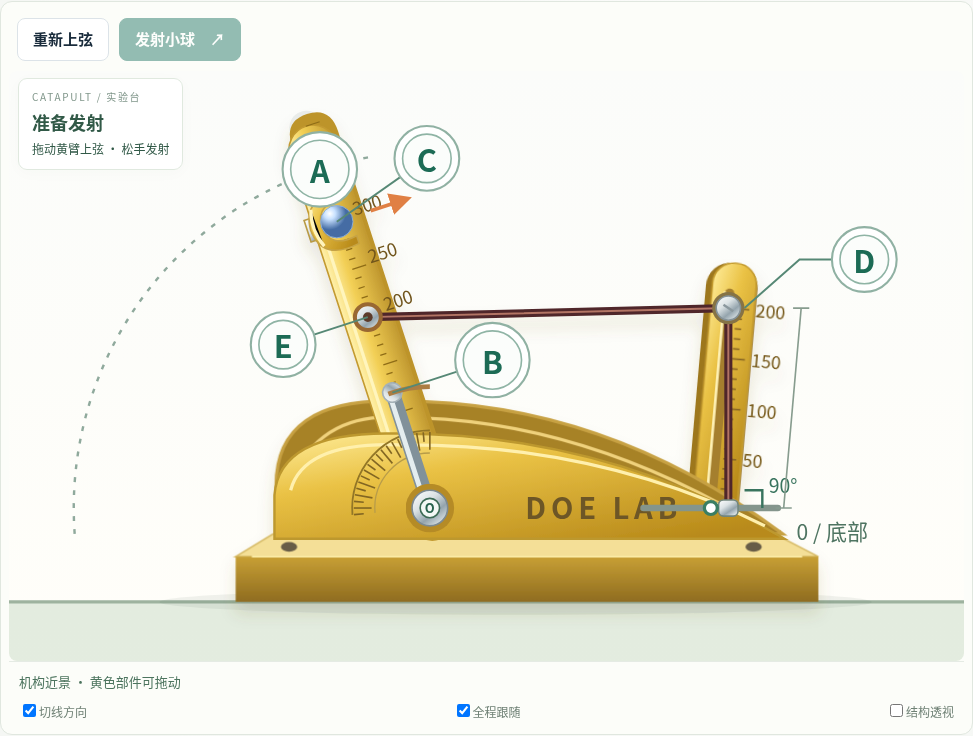
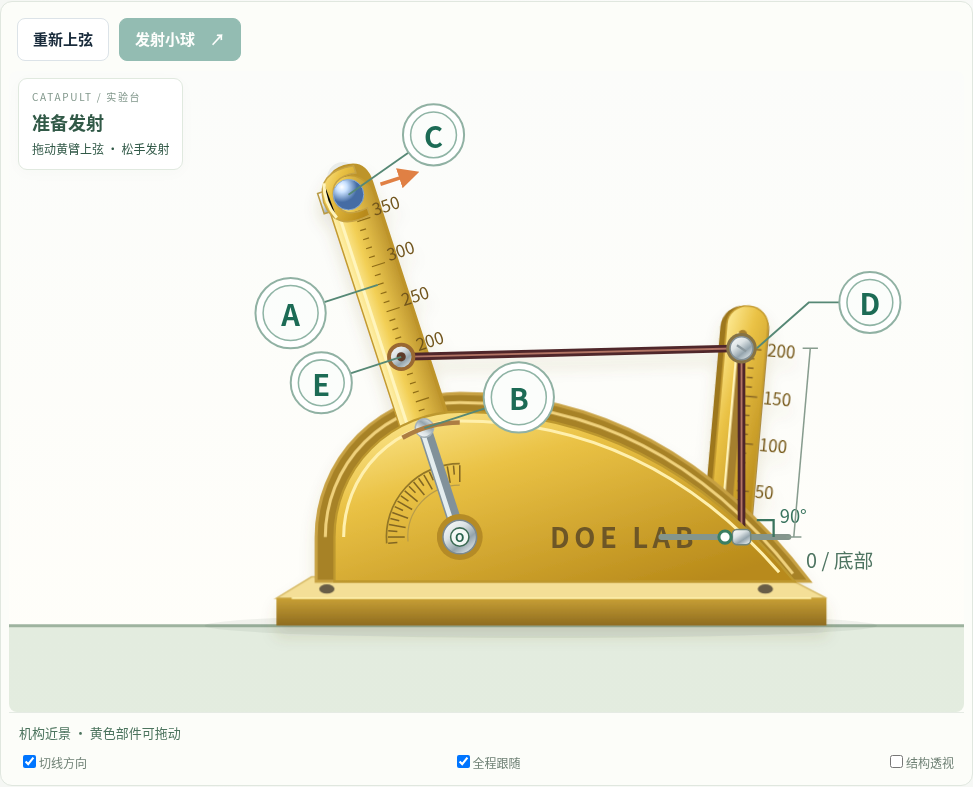
Enable ball dragging and wider factor ranges, reposition arm badge and raise concentric guards

diff --git a/tests/test_arm_ball_ranges.py b/tests/test_arm_ball_ranges.py
@@ -1,0 +1,26 @@
+from pathlib import Path
+from playwright.sync_api import sync_playwright
+import shutil
+ROOT=Path(__file__).resolve().parents[1]
+with sync_playwright() as p:
+ b=p.chromium.launch(**({'executable_path':shutil.which('chromium')} if shutil.which('chromium') else {}),args=['--no-sandbox'])
+ for filename in ['DOE_Catapult_Competition.html','DOE_Catapult_Reference_Layout.html']:
+  page=b.new_page(viewport={'width':1600,'height':1100});errors=[];page.on('pageerror',lambda e:errors.append(str(e)));page.set_content((ROOT/filename).read_text())
+  assert page.evaluate('factors.map(f=>[f.min,f.max])')==[[100,185],[90,120],[200,380],[0,200],[100,200]]
+  assert page.locator('#loaded-ball').get_attribute('data-drag-factor')=='C'
+  # Check actual drawn controls at the entire corner set; expanded ranges must not clip or overlap.
+  failures=page.evaluate('''()=>{const failures=[];for(let mask=0;mask<32;mask++){applySettings(factors.map((f,i)=>mask>>i&1?f.max:f.min));const box=$('mechanism').getBoundingClientRect(),rings=[...$('mechanism').querySelectorAll('[data-factor] .handle-ring')].map(e=>({id:e.parentElement.dataset.factor,r:e.getBoundingClientRect()}));for(const {id,r} of rings)if(r.left<box.left||r.right>box.right||r.top<box.top||r.bottom>box.bottom)failures.push({mask,id,reason:'clipped'});for(let i=0;i<rings.length;i++)for(let j=i+1;j<rings.length;j++){const a=rings[i],b=rings[j];if(Math.hypot((a.r.left+a.r.right-b.r.left-b.r.right)/2,(a.r.top+a.r.bottom-b.r.top-b.r.bottom)/2)<(a.r.width+b.r.width)/2)failures.push({mask,ids:a.id+b.id,reason:'overlap'})}const g=mechanismGeometry(vals());if(g.returnLength<0||Math.abs(g.returnLength-Math.abs(g.pin.y-g.tie.y))>1e-12)failures.push('negative return length')}return failures}''');assert not failures,failures
+  page.evaluate('applySettings([145,100,300,200,200])');page.uncheck('#autoRelease');page.locator('#loaded-ball').scroll_into_view_if_needed()
+  rect=page.locator('#loaded-ball').bounding_box();x=rect['x']+rect['width']/2;y=rect['y']+rect['height']/2
+  delta=page.evaluate('''()=>{const a=-factors[0].value*Math.PI/180,svg=$('mechanism'),p=new DOMPoint(0,0).matrixTransform(svg.getScreenCTM()),q=new DOMPoint(Math.cos(a)*80*.62,Math.sin(a)*80*.62).matrixTransform(svg.getScreenCTM());return {x:q.x-p.x,y:q.y-p.y}}''')
+  page.mouse.move(x,y);page.mouse.down();page.mouse.move(x+delta['x'],y+delta['y'],steps=18);page.mouse.up();assert abs(page.evaluate('vals()[2]')-380)<=1
+  assert page.evaluate('manual.length')==0
+  # Highest cup is 20 mm below the 400 mm arm tip.
+  assert page.evaluate('Math.abs(PHYSICS.armLength-factors[2].max/1000-.02)<1e-12')
+  page.evaluate('applySettings([145,120,380,0,200])');assert page.evaluate('vals()[1]===120 && vals()[3]===0');assert page.evaluate('Number.isFinite(mechanismGeometry(vals()).returnLength)')
+  page.evaluate('applySettings([145,100,300,200,200])');page.check('#autoRelease');page.select_option('#motionSpeed','2');page.locator('#mechanism').scroll_into_view_if_needed()
+  def arm(a):return page.evaluate('a=>new DOMPoint(diagramPose.pivot.x+Math.cos(a*Math.PI/180)*160*.62,diagramPose.pivot.y-Math.sin(a*Math.PI/180)*160*.62).matrixTransform($("mechanism").getScreenCTM()).toJSON()',a)
+  start=arm(145);end=arm(165);page.mouse.move(start['x'],start['y']);page.mouse.down();page.mouse.move(end['x'],end['y'],steps=18);page.mouse.up();page.wait_for_function('manual.length===1&&!busy');assert abs(page.evaluate('manual[0].vals[0]')-165)<=1
+  page.set_viewport_size({'width':390,'height':844});assert page.evaluate('document.documentElement.scrollWidth<=innerWidth');assert not errors,errors
+  print(filename+': expanded ranges, 32 corner control bounds, nonnegative cord length, actual ball drag to 380, arm release fires once, mobile PASS');page.close()
+ b.close()

diff --git a/tests/test_physics.py b/tests/test_physics.py
@@ -7,7 +7,7 @@ def reference(v,rotating=True):
  A,B,C,D,E=v;a,b=map(math.radians,[A,B]);delta=math.radians(B-100) if rotating else 0;r=C/1000;q=E/1000;p=D/1000;rake=math.radians(5);ax=.28*math.cos(delta)+p*math.sin(rake-delta);ay=.28*math.sin(delta)+p*math.cos(rake-delta)
  I=.025*.4**2/3+.014*r*r;gm=9.80665*(.025*.2+.014*r)
  def arm(t,z):
-  theta,w=z;L=math.hypot(q*math.cos(theta)-ax,q*math.sin(theta)-ay);extension=max(0,L+ay-.35);torque=18*extension*q*(ax*math.sin(theta)-ay*math.cos(theta))/L+gm*math.cos(theta)-.0003-.00008*w;return [-w,torque/I]
+  theta,w=z;L=math.hypot(q*math.cos(theta)-ax,q*math.sin(theta)-ay);extension=max(0,L+abs(ay)-.35);torque=18*extension*q*(ax*math.sin(theta)-ay*math.cos(theta))/L+gm*math.cos(theta)-.0003-.00008*w;return [-w,torque/I]
  def release(t,z):return z[0]-b
  release.direction=-1;release.terminal=True
  armSol=solve_ivp(arm,[0,3],[a,0],events=release,max_step=.001,atol=1e-12,rtol=1e-11);assert armSol.t_events[0].size
@@ -23,7 +23,7 @@ with sync_playwright() as p:
  b=p.chromium.launch(**({'executable_path':shutil.which('chromium')} if shutil.which('chromium') else {}),args=['--no-sandbox'])
  for filename,rotating in [('DOE_Catapult_Competition.html',True),('DOE_Catapult_Reference_Layout.html',False)]:
   page=b.new_page();page.set_content((ROOT/filename).read_text())
-  for settings in [[145,110,300,200,200],[180,110,300,200,200],[115,105,250,150,140],[180,100,200,100,120],[111,110,300,200,200]]:
+  for settings in [[145,110,300,200,200],[180,110,300,200,200],[115,105,250,150,140],[180,100,200,100,120],[111,110,300,200,200],[180,120,380,200,200],[145,100,380,0,200],[145,90,300,0,200]]:
    result=page.evaluate('v=>model(v)',settings);assert result['valid']
    expected=reference(settings,rotating)
    assert abs(result['distance']-expected)<.08,(settings,result['distance'],expected)

diff --git a/tests/test_ground_recock.py b/tests/test_ground_recock.py
@@ -8,7 +8,7 @@ with sync_playwright() as p:
   page=b.new_page(viewport={'width':1600,'height':1100});errors=[];page.on('pageerror',lambda e:errors.append(str(e)));page.set_content((ROOT/filename).read_text())
   assert page.evaluate('Math.abs(diagramPose.pivot.y+PHYSICS.pivotHeight*620-503)<1e-10 && diagramPose.pivot.y===445')
   assert page.locator('#world-stand').count()==0
-  assert page.locator('#base-front').evaluate('(el)=>{const b=el.getBBox();return b.width===360 && b.height===28}')
+  assert page.locator('#base-front').evaluate('(el)=>{const b=el.getBBox();return b.width===360 && b.height===18}')
   centers=page.evaluate('''()=>{const ids=['a-arm','b-limit','protractor'];const points=ids.map(id=>new DOMPoint(0,0).matrixTransform($(id).getScreenCTM()));return Math.max(...points.map(p=>Math.hypot(p.x-points[0].x,p.y-points[0].y)))}''');assert centers<1e-8
   assert page.locator('#protractor>path').first.evaluate('(el)=>{const length=el.getTotalLength();return Array.from({length:21},(_,i)=>{const p=el.getPointAtLength(i*length/20);return Math.abs(Math.hypot(p.x,p.y)-48)}).every(e=>e<.01)}')
   assert page.locator('.rig-actions #recockArm').count()==1 and page.locator('.rig-actions #launch').count()==1

diff --git a/README.md b/README.md
@@ -1,4 +1,4 @@
-# 投射器 DOE · 比例与重新上弦修正版
+# 投射器 DOE · 拉臂发射与拖球调节版
 
 [下载程序 ZIP](https://github.com/Future2025shenzhen/AI-SPC/archive/refs/heads/main.zip)
 
@@ -21,15 +21,13 @@
 
 ## 本轮优化
 
-- 底座宽度由 420 缩短到 360 绘图单位，正面高度由 14 加高至 28，保持直接落地。
-- 共轴支点 O 下移 20 绘图单位，转轴离地高度由约 12.58 cm 降至约 9.35 cm；物理模型同步更新。
-- 量角器圆弧、刻线使用以 O 为原点的同一 SVG 组，和 A/B 支轴严格同心。
-- “重新上弦”“发射小球”均位于投射器图像左上方。
-- 点击机身或轻点黄色臂只重新上弦，保留当前参数、记录与随机状态；不会自动再发射。
+- A 标记移到发射臂下侧，取消释放角圆弧上的 A 控件。直接拖动黄色发射臂并松手发射。
+- C 球杯最大位置提高到 380 mm，距 400 mm 臂顶 20 mm；可直接拖动蓝色球，沿臂调节 C，不会把拖球误判为发射。
+- B 开火角度扩展为 90–120°；D 定位销位置扩展为 0–200 mm。
+- 底座正面高度减至 18 绘图单位；两侧挡板加高，分别以共同 O 为圆心采用 82 / 94 的圆弧半径，高于半径 48 的量角器。
+- 保留左上方按钮、机身点击只重新上弦、主画面连续飞行、透视、三目标 ±15 cm 和 DOE。
 
-保留五变量图上操作、三目标 ±15 cm、连续主画面、结构透视、教学慢放、物理时间播放、暂停回放与 DOE 分析。启用“拖动黄色投射臂，松手即发射”时，明显拉臂动作仍可松手发射；仅点击不会发射。
-
-按参考图及原站机构比例独立绘制，未获得原设备完整工程尺寸，不承诺工程尺寸或原设备校准结果的 1:1 复现。[GitHub 来源和借鉴说明](GITHUB_REFERENCES.md)记录了阅读版本和结构区别。
+参数超出旧范围的组合按同一物理方程重新求解；弹力不足的组合显示原因，不伪造射程。按参考图及原站机构比例独立绘制，未获得原设备完整工程尺寸，不承诺现实器材校准结果的 1:1 复现。[参考来源](GITHUB_REFERENCES.md)。
 
 ## 机构定义
 
@@ -48,12 +46,12 @@
 | 变量 | 范围 |
 |---|---|
 | A 释放角 | 100–185° |
-| B 开火角度 | 90–110° |
-| C 球杯位置 | 200–300 mm |
-| D 距支架底部的销位置 | 100–200 mm |
+| B 开火角度 | 90–120° |
+| C 球杯位置 | 200–380 mm |
+| D 距支架底部的销位置 | 0–200 mm |
 | E 绳挂点位置 | 100–200 mm |
 
-D 的测量零点是 0，可调区间保留 100–200 mm。A 不能低于 B；A=B 时尚未上弦。调整限位 B 时尚未上弦的臂随限位移动。
+D 的测量零点是 0，可调区间为 0–200 mm。A 不能低于 B；A=B 时尚未上弦。调整限位 B 时尚未上弦的臂随限位移动。
 
 ## 三目标与 DOE
 
@@ -79,6 +77,7 @@ python tests/test_physics.py
 python tests/test_browser.py
 python tests/test_follow_camera.py
 python tests/test_ground_recock.py
+python tests/test_arm_ball_ranges.py
 ```
 
 物理测试与独立 SciPy 高精度积分比较，并检查能量平衡；浏览器测试检查球杯位置、离杯连续性、静态 SVG 复用、回放数据完整性、落地后拉臂、目标切换及移动端宽度；跟随镜头测试检查离杯前后球心、每个飞行采样点是否在视野内、平滑变焦及透视操作不改变数据。若系统已安装 `chromium`，测试优先使用该浏览器。

diff --git a/PHYSICS_NOTES.md b/PHYSICS_NOTES.md
@@ -109,10 +109,19 @@ B 徽标经引线移到臂旁，仅改变调节控件位置；B 限位杆仍绕 
 
 ## 比例、同心量角器与点击重新上弦
 
-底座正面范围 x=245–605、y=475–503；比上一版缩短 60 绘图单位，正面高度增加到 28。共轴点由 O=(365,425) 降到 O=(365,445)。地面仍为 y=503，因此 H=(503−445)/620 m≈0.093548 m。物理求解、主图、全景和教师说明使用相同 H，仍没有桌面或桌腿。当前五变量范围与材料参数保持原定义。
+底座正面范围 x=245–605、y=485–503；宽度为 360 绘图单位，正面高度为 18。共轴点由 O=(365,425) 降到 O=(365,445)。地面仍为 y=503，因此 H=(503−445)/620 m≈0.093548 m。物理求解、主图、全景和教师说明使用相同 H，仍没有桌面或桌腿。当前 B 范围为 90–120°、C 为 200–380 mm、D 为 0–200 mm；材料参数保持原定义。
 
 量角器的圆弧、刻线均放在 `protractor` 组内，局部中心为 (0,0)，再整体平移到 O。该组、A 臂和 B 限位杆的实际屏幕变换中心逐点比对，保证同心，避免单独移动轴孔或刻度图。
 
 点击机身、轻点黄臂、机身上的 Enter/Space，以及左上方“重新上弦”均只恢复当前设置的上弦姿态，不采样噪声、不增加记录。轻点黄臂时，保留轻点前的 A 设置。明显拖动仍按图上调节处理；启用松手发射选项时，真正的拉臂松手才可新增发射。发射、回放和确认验证期间锁定重置操作。
 
 独立 SciPy 基准同步使用新的 H。浏览器测试验证底座尺寸、地面、同心圆心、左上方按钮、点击及键盘只上弦、记录与随机状态不变、拖动和移动端。由于缺少参考设备的完整工程图与材料标定，图形属于参考比例的教学重绘，不作为加工尺寸图或现实射程保证。
+
+
+## 拉臂、拖球与新范围
+
+A 标记位于臂上 280 mm 位置沿下侧法线偏移 60 绘图单位，随当前臂角移动，不再放在释放角圆弧上。蓝色装填球具有 C 的拖动命中区域；拖动位移投影到臂轴，更新球杯半径。C 最大值 0.38 m，小于刚性臂长 0.40 m，球中心距臂顶保留 0.02 m。
+
+B 可达 120°，离杯仰角仍为 B−90°，因此范围为 0–30°。D 可降至 0；D=0 的固定支架版回绳可为零长度。共轴支架版在某些 B 下销可能低于锚点，整段绳长中的回绳严格使用 `abs(P.y−T.y)`，不使用带符号的高度，也不通过人为距离映射补偿弹力不足。
+
+左右两侧板的圆弧与量角器都以 O 为圆心，半径分别为 82、94 和 48，板顶高于量角器。外壳为固定部件，其外观变化不改变臂的质量或惯量。新增浏览器测试覆盖 32 个范围角点、控件边界、拖球至 380 mm、不误发射、实际拉臂松手只发一球；独立 SciPy 验证新增 B=120、C=380、D=0 及回绳反向组合。

diff --git a/GITHUB_REFERENCES.md b/GITHUB_REFERENCES.md
@@ -46,4 +46,4 @@
 
 本轮再次访问 https://www.sigmazone.com/catapult/ 并使用原页面指针操作限位、拉臂和松手发射，观察离杯与落地事件。吸收其装置与控制分区、底座层次、角度限位和沿部件调节的呈现；继续使用独立绘制的图形和本程序公开的教学模型，未嵌入原站商标、图片或代码。
 
-本轮保留落地式结构，按用户最新要求缩短并加高底座、降低共轴支点；量角器以共同 O 为原点绘制。两个按钮移到图像左上方，机身点击改为只重新上弦。两种结构仍分别提供，模型离地高度同步改变，详见 PHYSICS_NOTES.md。
+本轮保留落地式结构和较低的共轴支点；底座正面减薄，侧挡板加高并与量角器同心。两个按钮保留在图像左上方，机身点击只重新上弦；A 移到臂下，直接拖球可调 C。两种结构仍分别提供，模型离地高度同步改变，详见 PHYSICS_NOTES.md。
